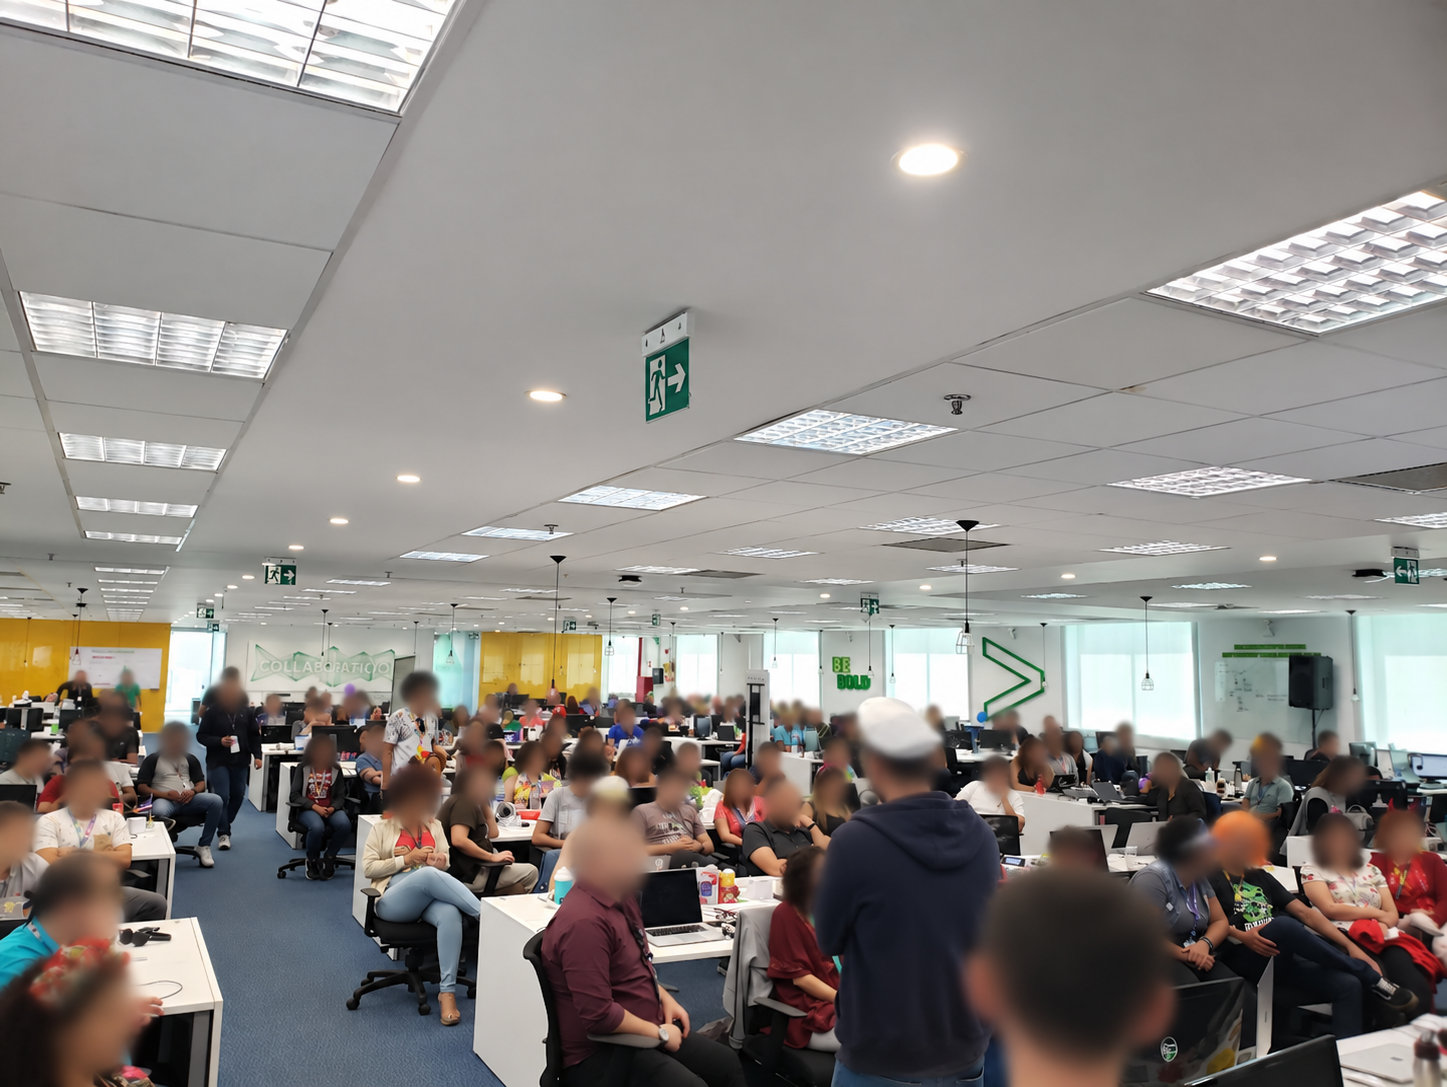
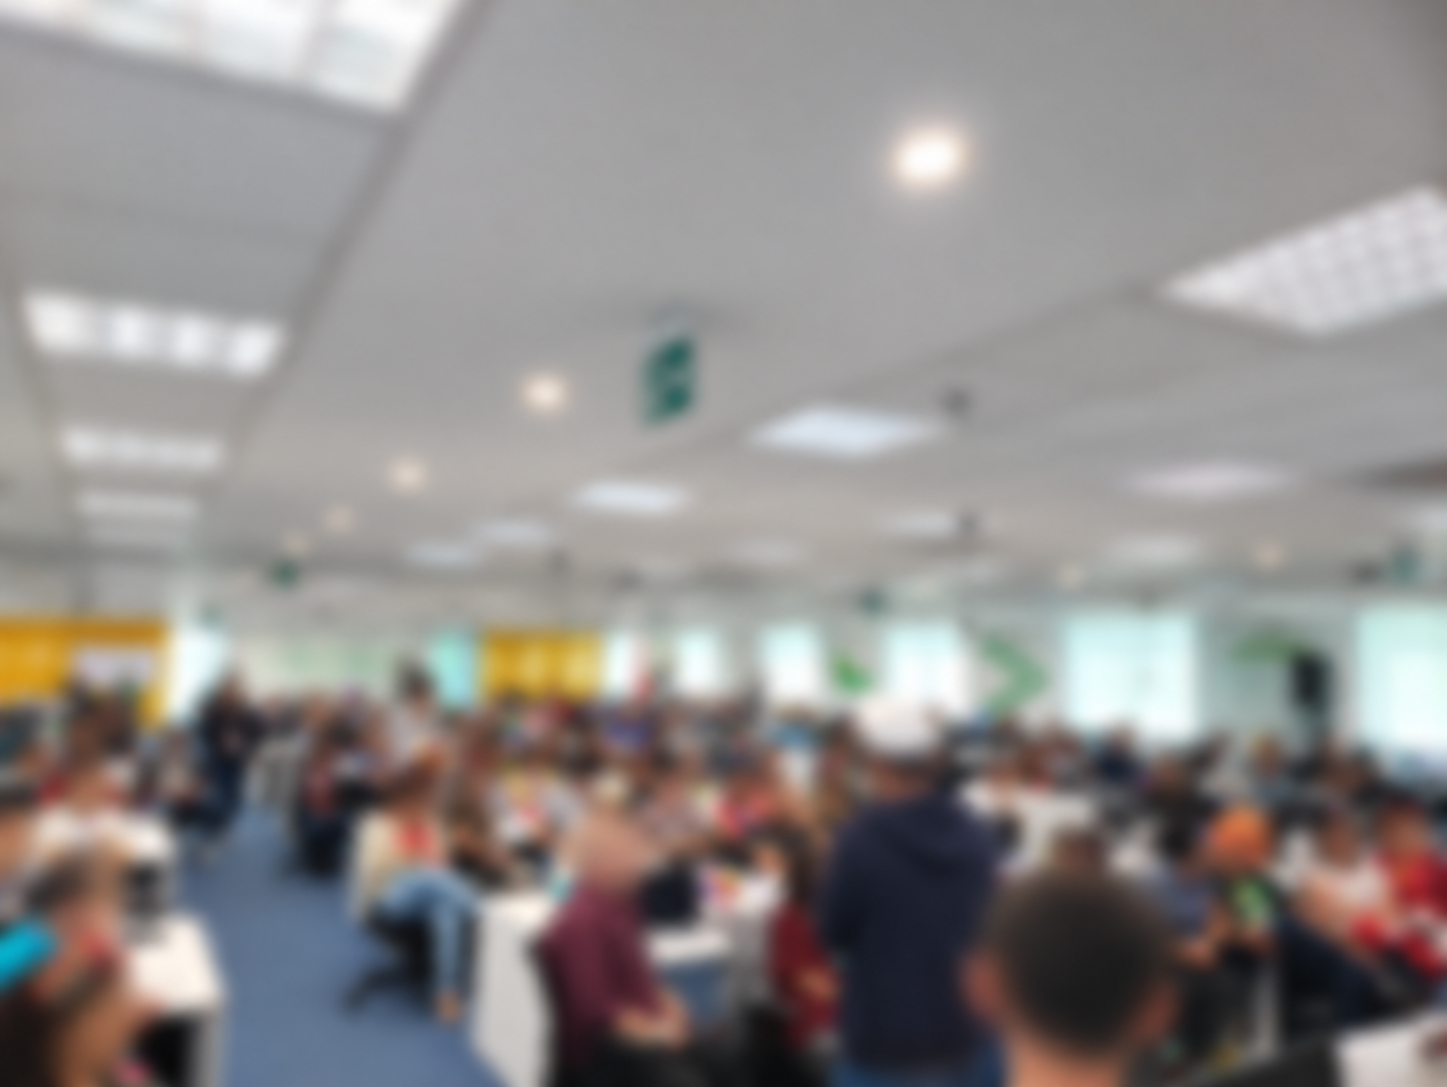
Apply full-photo blur to Planejação card image

diff --git a/index.html b/index.html
@@ -184,7 +184,7 @@
         </li>
         <li class="mindset-item">
           <article class="mindset-card mindset-card-image" aria-labelledby="planejacao-title">
-            <img class="mindset-card-cover mindset-card-cover-discussion" src="assets/mindset-planejacao-blurred.png" alt="A group discussion in an office, with participants blurred for privacy." width="1447" height="1087" loading="lazy" decoding="async">
+            <img class="mindset-card-cover mindset-card-cover-discussion" src="assets/mindset-planejacao-blurred.png?v=21d38b923a96" alt="A group discussion in an office, with the entire photograph blurred for privacy." width="1447" height="1087" loading="lazy" decoding="async">
             <div class="mindset-card-body">
               <div class="mindset-card-heading">
                 <h3 id="planejacao-title" lang="pt-BR">“Planejação” <small class="mindset-language">(PT-BR)</small></h3>

diff --git a/README.md b/README.md
@@ -148,4 +148,4 @@ The Mindset carousel was verified in Chromium and Linux WebKit at 280, 390, 800 
 
 The approved growth card follows the preparedness card: “Mar calmo não faz bom marinheiro.” (PT-BR), the transition “In English, the idea is:”, the idiomatic equivalent “No pressure, no diamonds.” and the approved explanation “Challenges push me to learn, adapt and improve. Staying in my comfort zone won’t take me further.” The full-width 2:1 cover is a generated monochrome adaptation of Paulo’s supplied maritime reference, with rough water, mist and a distant sailboat. The approved image is stored unchanged as `assets/mindset-sea.png` and loaded lazily with explicit dimensions; the quote is rendered as accessible text below the image.
 
-The approved execution card follows the growth card: “Planejação” (PT-BR), the transition “In the spirit of getting things done:”, the summary “Plan just enough. Then act.” and Paulo’s approved explanation about a word he heard from a leader, combining enough planning to move forward with execution. The supplied office group photo was edited to blur visible faces and head regions directly in the image pixels. Only this approved edited asset is served as `assets/mindset-planejacao-blurred.png`. The 2:1 header uses a bottom-centered crop to keep the discussion in view; explicit dimensions and lazy loading reserve its space.
+The approved execution card follows the growth card: “Planejação” (PT-BR), the transition “In the spirit of getting things done:”, the summary “Plan just enough. Then act.” and Paulo’s approved explanation about a word he heard from a leader, combining enough planning to move forward with execution. The supplied office group photo was edited to blur the entire photograph directly in the image pixels, preserving the stronger privacy blur on faces and head regions. The room, signage, furniture, clothing and participants all receive the global blur. Only this edited asset is served as `assets/mindset-planejacao-blurred.png`; its versioned URL refreshes cached copies. The 2:1 header uses a bottom-centered crop to keep the discussion in view; explicit dimensions and lazy loading reserve its space.
